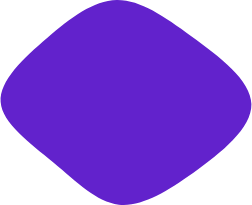
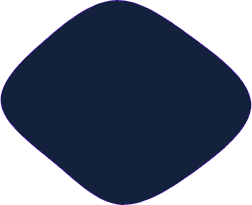
Commit4

diff --git a/css/style.css b/css/style.css
@@ -393,21 +393,24 @@ h6,
 
 .service-item:hover h5,
 .service-item:hover p {
-    color: #FFFFFF;
+    color: var(--blanco);
 }
 
+
+/*! BOTON DE LA FLECHA EN SERVICIOS*/
 .service-item a.btn {
     position: absolute;
     bottom: -40px;
     left: 50%;
     transform: translateX(-50%);
-    color: var(--primary);
-    background: #FFFFFF;
+    color: var(--naranja);
+    background: var(--blanco);
     border-radius: 40px 40px 0 0;
     transition: .5s;
     z-index: 1;
 }
 
+/*! BOTON DE LA FLECHA CUANDO LE PONES EL MOUSE ENCIMA */
 .service-item a.btn:hover {
     color: var(--dark);
     background: var(--secondary);
@@ -418,7 +421,7 @@ h6,
 }
 
 
-/*** Project Portfolio ***/
+/*! PORTAFOLIO  ***/
 #portfolio-flters li {
     display: inline-block;
     font-weight: 500;
@@ -428,10 +431,11 @@ h6,
     border-bottom: 2px solid transparent;
 }
 
+/*! NAV DE FILTRO DEL PORTAFOLIO*/
 #portfolio-flters li:hover,
 #portfolio-flters li.active {
-    color: var(--primary);
-    border-color: var(--primary);
+    color: var(--naranja);
+    border-color: var(--OxfordAzul);
 }
 
 .portfolio-item img {
@@ -451,7 +455,7 @@ h6,
     height: 100%;
     top: 0;
     left: 0;
-    background: rgba(98, 34, 204, .9);
+    background: rgba(76, 72, 82, 0.516);
     transition: .5s;
     opacity: 0;
 }
@@ -490,6 +494,8 @@ h6,
     justify-content: center;
 }
 
+
+/*! FLECHAS DE CAMBIAR DE TESTIMONIOS*/
 .testimonial-carousel .owl-nav .owl-prev,
 .testimonial-carousel .owl-nav .owl-next {
     margin: 0 12px;
@@ -498,34 +504,37 @@ h6,
     display: flex;
     align-items: center;
     justify-content: center;
-    color: var(--primary);
+    color: var(--OxfordAzul);
     background: var(--light);
     border-radius: 60px;
     font-size: 22px;
     transition: .5s;
 }
 
+/*! BLACKGROUND DE LAS FLECHAS DE CAMBIAR TESTIMONIOS**/
 .testimonial-carousel .owl-nav .owl-prev:hover,
 .testimonial-carousel .owl-nav .owl-next:hover {
-    color: #FFFFFF;
-    background: var(--primary);
+    color: var(--blanco);
+    background: var(--OxfordAzul);
     box-shadow: 0 0 10px rgba(0, 0, 0, .5);
 }
 
 
-/*** Team ***/
+/*! EQUIPO ***/
+
+/*! COLOR DE LAS REDES SOCIALES*/
 .team-item .btn {
-    color: var(--primary);
-    background: #FFFFFF;
+    color: var(--OxfordAzul);
+    background: var(--blanco);
 }
 
 .team-item .btn:hover {
-    color: #FFFFFF;
-    background: var(--primary);
+    color: var(--blanco);
+    background: var(--OxfordAzul);
 }
 
 
-/*** Footer ***/
+/*** FOOTER ***/
 .footer {
     margin-top: 6rem;
     padding-top: 9rem;
@@ -538,6 +547,7 @@ h6,
     background-repeat: no-repeat;
 }
 
+/*! ICONOS DE REDES SOCIALES DEL FOOTER*/
 .footer .btn.btn-social {
     margin-right: 5px;
     width: 40px;
@@ -551,8 +561,9 @@ h6,
     transition: .3s;
 }
 
+/*! COLOR CUANDO LE PONES EL MOUSE A LOS ICONOS DE REDES SOCIALES DEL FOOTER*/
 .footer .btn.btn-social:hover {
-    color: var(--primary);
+    color: var(--OxfordAzul);
 }
 
 .footer .btn.btn-link {
@@ -573,10 +584,11 @@ h6,
     margin-right: 10px;
 }
 
+/*! COLOR DE CUANDO LE PONES EL MOUSE ENCIMA A LOS LINKS DEL FOOTER*/
 .footer .btn.btn-link:hover {
     letter-spacing: 1px;
     box-shadow: none;
-    color: var(--secondary);
+    color: var(--naranja);
 }
 
 .footer .copyright {
@@ -601,7 +613,8 @@ h6,
     border-right: none;
 }
 
+/*! COLOR DE CUANDO LE PONE EL MOUSE ENCIMA A LOS LINKS DEL COPYRIGHT*/
 .footer .copyright a:hover,
 .footer .footer-menu a:hover {
-    color: var(--secondary);
+    color: var(--naranja);
 }

diff --git a/css/bootstrap.min.css b/css/bootstrap.min.css
@@ -26,6 +26,11 @@
   --bs-danger: #dc3545;
   --bs-light: #f6f4f9;
   --bs-dark: #04000b;
+  --negro: #000000;
+  --blanco:#FFFFFF;
+  --naranja: #FCA311;
+  --OxfordAzul: #14213D;
+  --Platino: #E5E5E5;
   --bs-font-sans-serif: system-ui, -apple-system, "Segoe UI", Roboto,
     "Helvetica Neue", Arial, "Noto Sans", "Liberation Sans", sans-serif,
     "Apple Color Emoji", "Segoe UI Emoji", "Segoe UI Symbol", "Noto Color Emoji";
@@ -536,7 +541,7 @@ progress {
 .container-xl,
 .container-xxl {
   width: 100%;
-  padding-right: var(--bs-gutter-x, 0.75rem);
+  padding-right: var(--OxfordAzul, 0.75rem);
   padding-left: var(--bs-gutter-x, 0.75rem);
   margin-right: auto;
   margin-left: auto;
@@ -2583,8 +2588,8 @@ fieldset:disabled .btn {
 .btn-primary:disabled,
 .btn-primary.disabled {
   color: #fff;
-  background-color: #6222cc;
-  border-color: #6222cc;
+  background-color: #14213D;
+  border-color: #14213D;
 }
 .btn-secondary {
   color: #000;
@@ -6787,7 +6792,7 @@ fieldset:disabled .btn {
   word-break: break-word !important;
 }
 .text-primary {
-  color: #6222cc !important;
+  color: #14213D !important;
 }
 .text-secondary {
   color: #fba504 !important;
@@ -6829,7 +6834,7 @@ fieldset:disabled .btn {
   color: inherit !important;
 }
 .bg-primary {
-  background-color: #6222cc !important;
+  background-color: #14213D !important;
 }
 .bg-secondary {
   background-color: #fba504 !important;
